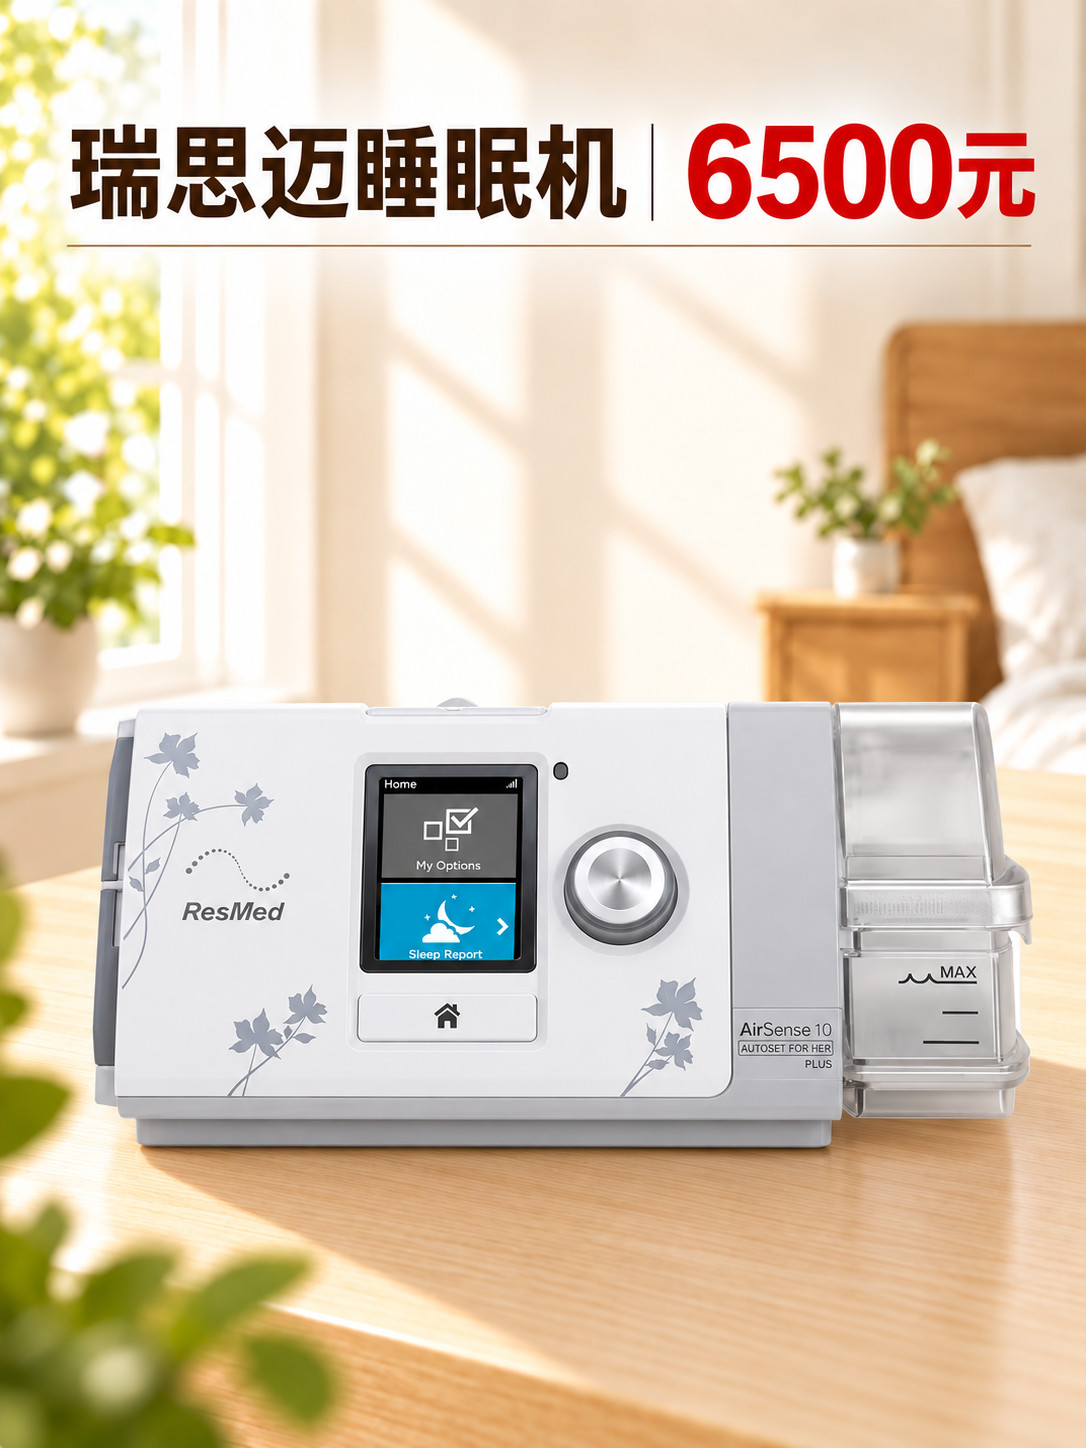
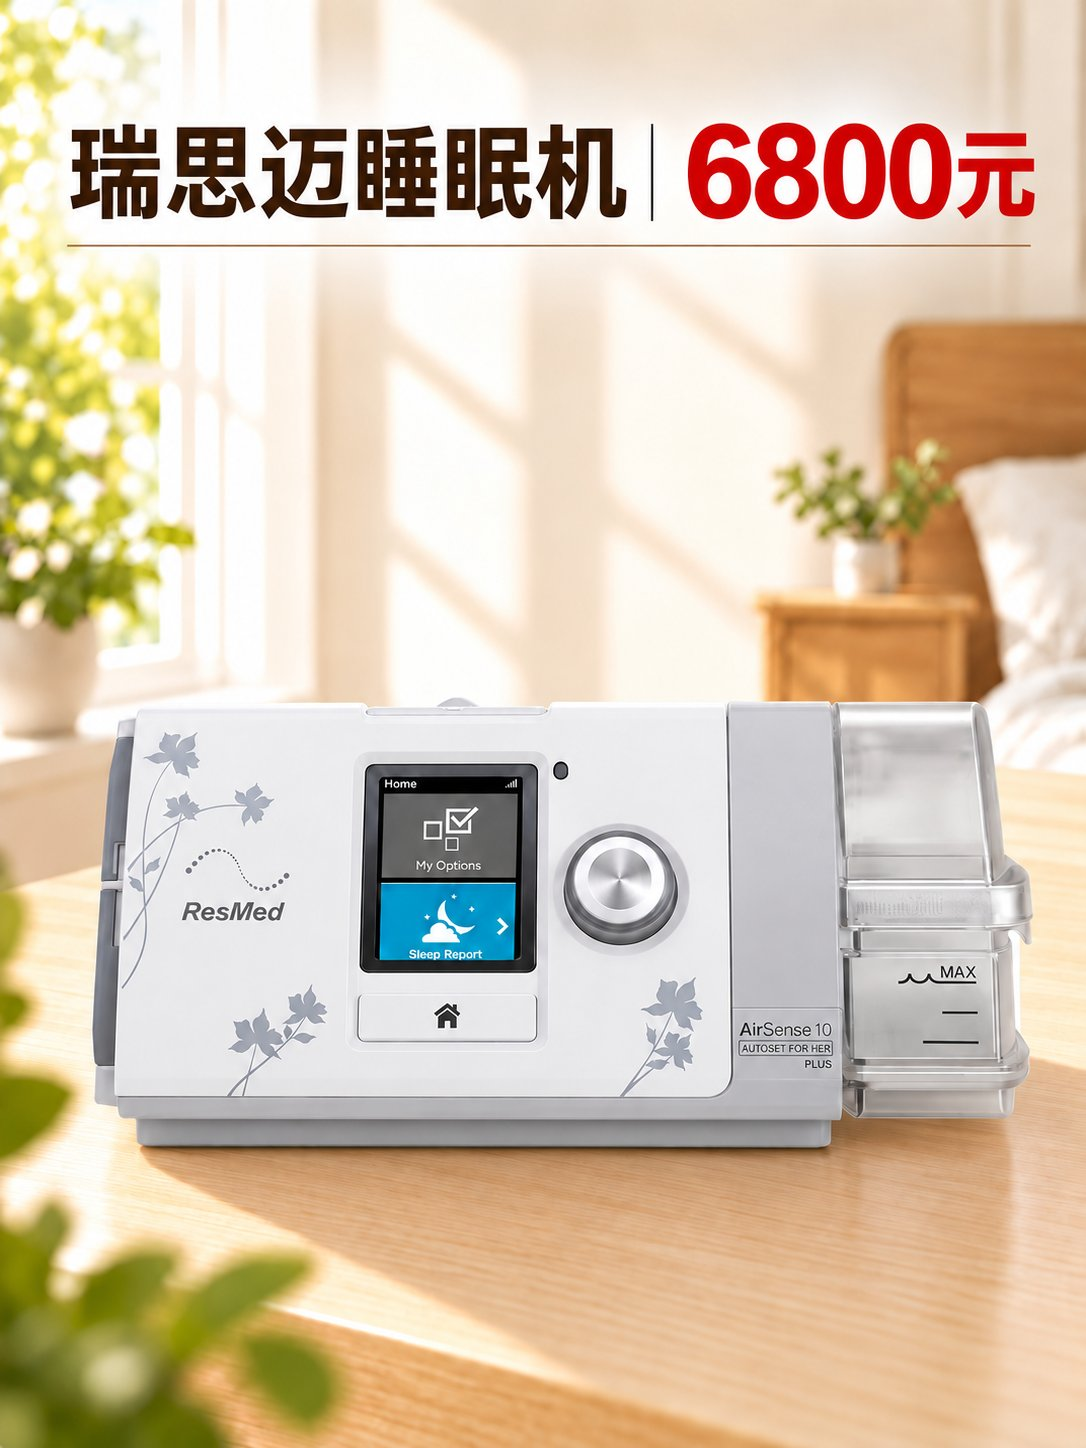
更新产品图：小轮轮椅(id 67)与瑞思迈睡眠机(id 79)换新价图
- assets/p67.jpg: 图上价格 696→798
- assets/p79.jpg: 图上价格 6500→6800
- assets/thumbs/p67.webp、p79.webp: 按新图重新生成 480x640 缩略图
- products.js: 两张图 image 版本号 ?v=20260916 → ?v=20261017
- app.js: thumbnail() 缩略图版本号 ?v=20260917 → ?v=20261017
- index.html: products.js/app.js 缓存版本号 bump 至 20261017-img
价格数据（798/6800）与图上数字现已一致。

diff --git a/index.html b/index.html
@@ -24,7 +24,7 @@
 <dialog id="map-dialog" aria-labelledby="map-title"><div class="dialog-top"><h2 id="map-title">选择地图导航</h2><button id="close-map" aria-label="关闭地图选择">✕</button></div><div class="list-content"><p class="map-address">临汾市尧都区功臣御苑一期西门<br>再青春银发超市</p><div class="map-options"><a class="map-choice secondary" href="https://uri.amap.com/search?keyword=%E4%B8%B4%E6%B1%BE%E5%B8%82%E5%B0%A7%E9%83%BD%E5%8C%BA%E5%8A%9F%E8%87%A3%E5%BE%A1%E8%8B%91%E4%B8%80%E6%9C%9F%E8%A5%BF%E9%97%A8&amp;city=%E4%B8%B4%E6%B1%BE&amp;view=map&amp;src=zaiqingchun&amp;callnative=1" target="_blank" rel="noopener noreferrer">高德地图<span aria-hidden="true">↗</span></a><a class="map-choice secondary" href="https://api.map.baidu.com/place/search?query=%E4%B8%B4%E6%B1%BE%E5%B8%82%E5%B0%A7%E9%83%BD%E5%8C%BA%E5%8A%9F%E8%87%A3%E5%BE%A1%E8%8B%91%E4%B8%80%E6%9C%9F%E8%A5%BF%E9%97%A8&amp;region=%E4%B8%B4%E6%B1%BE%E5%B8%82&amp;output=html&amp;src=webapp.zaiqingchun.catalog" target="_blank" rel="noopener noreferrer">百度地图<span aria-hidden="true">↗</span></a><a class="map-choice secondary" href="https://apis.map.qq.com/uri/v1/search?keyword=%E4%B8%B4%E6%B1%BE%E5%B8%82%E5%B0%A7%E9%83%BD%E5%8C%BA%E5%8A%9F%E8%87%A3%E5%BE%A1%E8%8B%91%E4%B8%80%E6%9C%9F%E8%A5%BF%E9%97%A8&amp;region=%E4%B8%B4%E6%B1%BE%E5%B8%82&amp;referer=zaiqingchun" target="_blank" rel="noopener noreferrer">腾讯地图<span aria-hidden="true">↗</span></a></div><p class="feature-help">打开后请确认目的地，再选择驾车、步行或公交路线。能否唤起地图 App 取决于手机和浏览器；未唤起时可使用地图网页。</p><p class="feature-help">微信中打不开？点击右上角“…”选择在浏览器打开，或复制地址到常用地图搜索。</p><button id="map-copy-address" class="secondary">复制门店地址</button><p class="feedback" data-feedback role="status" aria-live="polite"></p></div></dialog>
 <dialog id="share-guide" aria-labelledby="share-title"><div class="dialog-top"><h2 id="share-title">分享给微信好友</h2><button id="close-share-guide" aria-label="关闭分享提示">✕</button></div><div class="list-content"><p id="share-guide-text" class="share-instructions"></p><p id="share-guide-product" class="feature-help"></p><div class="list-actions"><button id="share-guide-done" class="primary">知道了</button><button id="share-guide-copy" class="secondary">备用：复制单品链接</button></div><p class="feedback" data-feedback role="status" aria-live="polite"></p></div></dialog>
 <p class="feedback toast" role="status" aria-live="polite" data-feedback></p>
-<script src="products.js?v=20261017-price"></script><script src="app.js?v=20260917-series"></script><script src="features.js?v=20260917-thumbs1"></script><script>
+<script src="products.js?v=20261017-img"></script><script src="app.js?v=20261017-img"></script><script src="features.js?v=20260917-thumbs1"></script><script>
   function __send(t,d){ window.parent.postMessage(Object.assign({isStreamlitMessage:true,type:t},d),"*"); }
   function __setH(h){ __send("streamlit:setFrameHeight",{height:h}); }
   __send("streamlit:componentReady",{apiVersion:1});
@@ -34,4 +34,5 @@
   setInterval(__syncH, 500);
 </script>
 </body></html>
+
 

diff --git a/app.js b/app.js
@@ -7,7 +7,7 @@ const esc=s=>String(s).replace(/[&<>"']/g,c=>({'&':'&amp;','<':'&lt;','>':'&gt;'
 const catLabel=s=>s==='全部产品'?s:s.replace('系列','');
 function drawCategories(){ $('categories').innerHTML=['全部产品',...categories].map(c=>`<button class="category" data-category="${c}" aria-pressed="${selected===c}"><span>${catLabel(c)}</span><span>${c==='全部产品'?PRODUCTS.length:PRODUCTS.filter(p=>p.category===c).length}</span></button>`).join(''); }
 function filteredProducts(){const terms=$('search').value.toLowerCase().trim().split(/\s+/).filter(Boolean);return PRODUCTS.filter(p=>(selected==='全部产品'||p.category===selected)&&terms.every(t=>(p.name+' '+p.category+' '+p.description+' '+(p.price??'')).toLowerCase().includes(t)));}
-const thumbnail=p=>p.image.replace(/assets\/(p\d+)\.jpg(?:\?.*)?$/,'assets/thumbs/$1.webp?v=20260917');
+const thumbnail=p=>p.image.replace(/assets\/(p\d+)\.jpg(?:\?.*)?$/,'assets/thumbs/$1.webp?v=20261017');
 function render(){const list=filteredProducts(),q=$('search').value.trim();$('clear').hidden=!q;$('result-title').textContent=q?'搜索结果':selected;$('result-count').textContent=`${q?'“'+q+'” · ':''}${selected==='全部产品'?'':catLabel(selected)+' · '}共 ${list.length} 款产品`;$('empty').hidden=list.length>0;$('grid').innerHTML=list.map((p,i)=>`<article class="product"><button class="product-button" data-product="${p.id}" aria-label="查看${esc(p.name)}的介绍"><img src="${thumbnail(p)}" alt="${esc(p.name)}产品图册" loading="${i<4?'eager':'lazy'}" decoding="async" width="720" height="960"><span class="product-body"><span class="tag">${catLabel(p.category)}</span><span class="product-name">${esc(p.name)}</span><span class="product-desc">${esc(p.description)}</span><span class="product-foot"><span class="price ${p.price===null?'pending':''}">${p.price===null?'价格待核实':'<small>¥</small> '+p.price}</span><span class="view">详情 <svg class="ui-icon" viewBox="0 0 24 24" aria-hidden="true"><path d="M5 12h14m-5-5 5 5-5 5"/></svg></span></span></span></button><button class="card-add" data-add="${p.id}" aria-label="将${esc(p.name)}加入选购清单">＋ 加入清单</button></article>`).join('');}
 function showProduct(id){const p=PRODUCTS.find(p=>p.id===id);if(!p)return;$('detail-title').textContent=p.name;$('detail-category').textContent=p.category;$('detail-price').textContent=p.price===null?'价格待核实':'¥ '+p.price;$('detail-description').textContent=p.description;$('detail-image').src=p.image;$('detail-image').alt=p.name+'产品图册';if(!$('detail').open)$('detail').showModal();$('detail').scrollTop=0;document.body.classList.add('modal-open');window.catalogFeatures?.onProductOpen(p);}
 $('categories').addEventListener('click',e=>{const b=e.target.closest('[data-category]');if(!b)return;selected=b.dataset.category;drawCategories();render();});
@@ -24,3 +24,4 @@ document.querySelector('.catalog-stat strong').textContent=PRODUCTS.length;
 document.querySelector('.catalog-stat span').textContent=`${categories.length} 个品类 · 按需查找`;
 document.querySelector('.category-heading>span').textContent=`${categories.length} 类`;
 drawCategories();render();
+

diff --git a/products.js b/products.js
@@ -85,7 +85,7 @@ const PRODUCTS = [
     "name": "瑞思迈睡眠机",
     "category": "呼吸机系列",
     "price": 6800,
-    "image": "assets/p79.jpg?v=20260916",
+    "image": "assets/p79.jpg?v=20261017",
     "description": "瑞思迈品牌睡眠呼吸设备，配有显示屏、旋钮和侧置湿化水盒。具体型号、面罩及管路配置可联系门店了解。"
   },
   {
@@ -669,7 +669,7 @@ const PRODUCTS = [
     "name": "小轮轮椅",
     "category": "轮椅系列",
     "price": 798,
-    "image": "assets/p67.jpg?v=20260916",
+    "image": "assets/p67.jpg?v=20261017",
     "description": "小轮轮椅，绿色车架搭配深色座靠面，设后方推手、扶手和脚踏，方便陪护推行。"
   },
   {
@@ -809,4 +809,5 @@ const PRODUCTS = [
     "description": "泰昌足浴盆，浅色翻盖式外观，盆内设有双脚放置区域及滚轮结构。可到店比较不同价位款式，具体容量、加热与按摩功能以产品说明为准。"
   }
 ];
+
 
